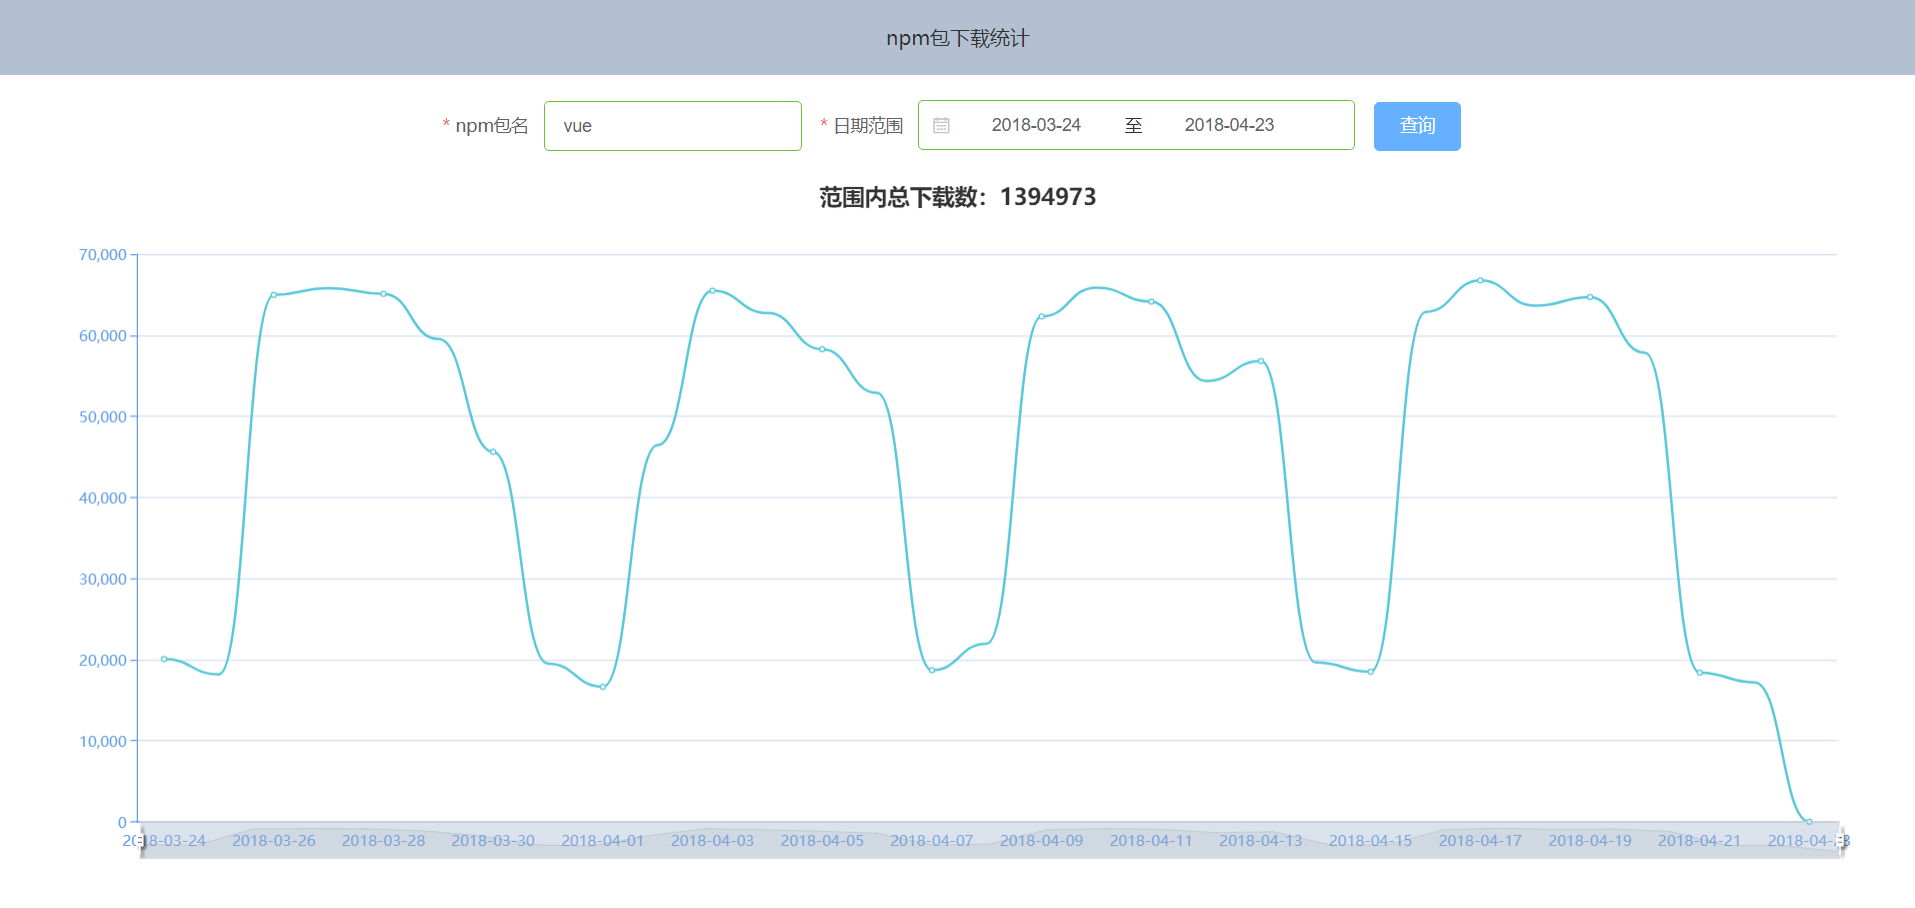
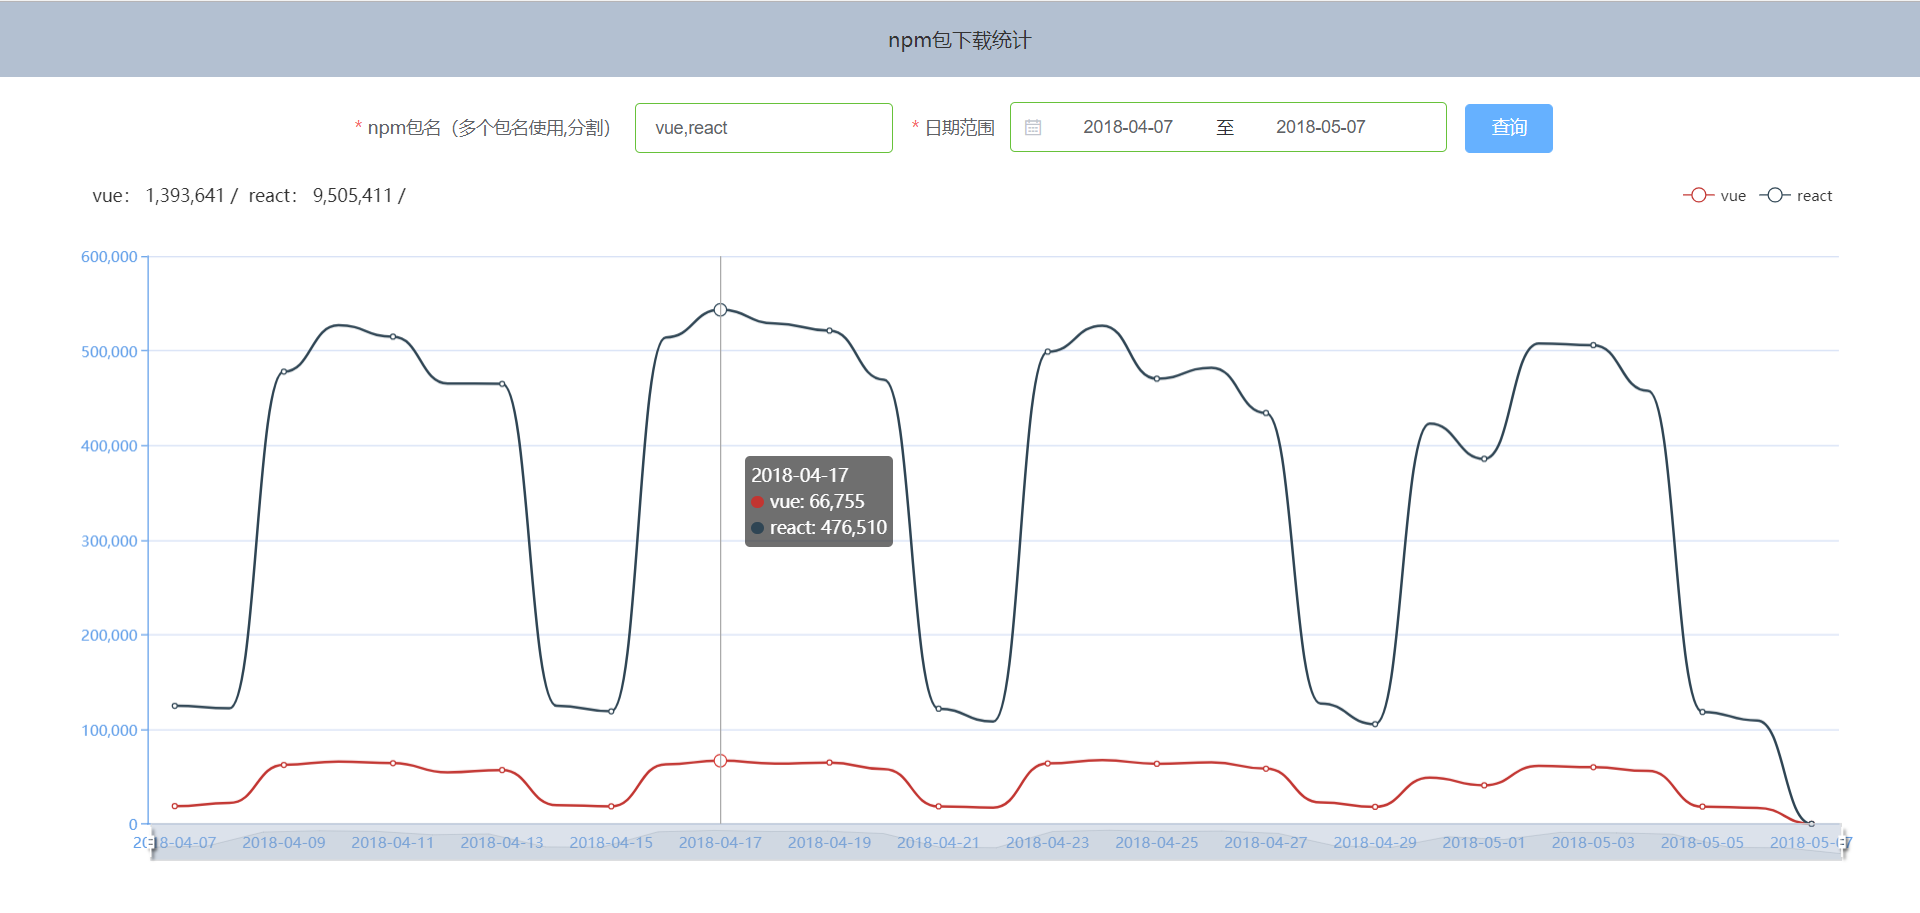
add batch query
1.add batch query
2.change local server port
3.change screenshot

diff --git a/src/views/home/index.vue b/src/views/home/index.vue
@@ -4,7 +4,7 @@
       <el-header>npm包下载统计</el-header>
       <el-main>
         <el-form :inline="true" :model="queryForm" :rules="rules" ref="queryForm" class="query-form-inline">
-          <el-form-item label="npm包名" prop="packageName">
+          <el-form-item label="npm包名（多个包名使用,分割）" prop="packageName">
             <el-input v-model="queryForm.packageName" placeholder="请输入包名"></el-input>
           </el-form-item>
           <el-form-item label="日期范围" prop="datetime">
@@ -23,7 +23,12 @@
 </template>
 
 <script>
-import echarts from 'echarts'
+import * as echarts from 'echarts/lib/echarts'
+import 'echarts/lib/chart/line'
+import 'echarts/lib/component/tooltip'
+import 'echarts/lib/component/title'
+import 'echarts/lib/component/legend'
+import 'echarts/lib/component/dataZoom'
 import fetch from 'isomorphic-fetch'
 
 export default {
@@ -31,7 +36,6 @@ export default {
     let checkDateLength = (rule, value, callback) => {
       let timeLen = new Date(value[1]).getTime() - new Date(value[0]).getTime()
       let dataLen = timeLen / 86400000
-      console.log(dataLen)
       if (dataLen > 546) { // 超过546天
         this.$notify({
           title: '提示',
@@ -90,71 +94,7 @@ export default {
   },
   mounted () {
     this.npmDataChart = echarts.init(document.getElementById('chart-render'), null, {renderer: 'svg'})
-    this.chartOpention = {
-      title: {
-        left: 'center',
-        text: ''
-      },
-      legend: {
-        data: []
-      },
-      tooltip: {
-        trigger: 'axis'
-      },
-      dataZoom: [{
-        type: 'inside'
-      }, {
-        handleSize: '80%',
-        handleStyle: {
-          color: '#fff',
-          shadowBlur: 3,
-          shadowColor: 'rgba(0, 0, 0, 0.6)',
-          shadowOffsetX: 2,
-          shadowOffsetY: 2
-        }
-      }],
-      grid: {
-        left: '3%',
-        right: '3%',
-        bottom: '3%',
-        containLabel: true
-      },
-      xAxis: {
-        type: 'category',
-        axisTick: {
-          show: false
-        },
-        axisLine: {
-          lineStyle: {
-            color: '#609ee9'
-          }
-        },
-        data: []
-      },
-      yAxis: {
-        type: 'value',
-        splitLine: {
-          lineStyle: {
-            color: ['#D4DFF5']
-          }
-        },
-        axisLine: {
-          lineStyle: {
-            color: '#609ee9'
-          }
-        }
-      },
-      series: [{
-        data: [],
-        type: 'line',
-        itemStyle: {
-          normal: {
-            color: '#58c8da'
-          }
-        },
-        smooth: true
-      }]
-    }
+    this.initChartData()
     window.onresize = this.npmDataChart.resize
   },
   methods: {
@@ -171,37 +111,69 @@ export default {
               type: 'error'
             })
             throw new Error('404')
+          } else if (response.status === 400) {
+            this.$notify({
+              title: '错误',
+              message: '批量查询超过了365天！',
+              type: 'error'
+            })
+            throw new Error('400')
           }
           return response.json()
         })
         .then((res) => {
-          let resData = res.downloads
-          let dayArr = []
-          let downloadsArr = []
-          let downloadCount = 0
-          for (let i = 0, len = resData.length; i < len; i++) {
-            dayArr.push(resData[i].day)
-            downloadsArr.push(resData[i].downloads)
-            downloadCount += resData[i].downloads
+          this.initChartData()
+          let packageArr = this.queryForm.packageName.split(',')
+          if (packageArr.length > 1) {
+            for (let value of Object.entries(res)) {
+              if (value[0]) {
+                this.dataHandle(value[0], value[1].downloads, true)
+              }
+            }
+          } else {
+            this.dataHandle(this.queryForm.packageName, res.downloads, false)
           }
-          downloadCount = downloadCount.toLocaleString()
-          this.chartOpention.title.text = `范围内总下载数：${downloadCount}`
-          this.chartOpention.xAxis.data = dayArr
-          this.chartOpention.series[0].data = downloadsArr
           this.npmDataChart.hideLoading()
           this.npmDataChart.setOption(this.chartOpention)
         })
         .catch((e) => {
-          if (e.message !== '404') {
+          if (e.message !== '404' && e.message !== '400') {
             this.$notify({
               title: '错误',
               message: '网络错误！',
               type: 'error'
             })
-            this.npmDataChart.hideLoading()
           }
+          this.npmDataChart.hideLoading()
           return Promise.reject(e)
         })
+    },
+    dataHandle (seriesName, dataArr, isBatch) {
+      let downloadsArr = []
+      let dayArr = []
+      let totalDownload = 0
+      for (let dwValue of Array.values(dataArr)) {
+        dayArr.push(dwValue.day)
+        downloadsArr.push(dwValue.downloads)
+        totalDownload += dwValue.downloads
+      }
+      console.log(totalDownload)
+      this.chartOpention.series.push({
+        name: seriesName,
+        type: 'line',
+        stack: '下载数',
+        data: downloadsArr,
+        smooth: true
+      })
+      this.chartOpention.xAxis.data = dayArr
+      if (isBatch) {
+        this.chartOpention.legend.data.push(seriesName)
+        totalDownload = totalDownload.toLocaleString()
+        this.chartOpention.title.text += ` ${seriesName}： ${totalDownload} / `
+      } else {
+        totalDownload = totalDownload.toLocaleString()
+        this.chartOpention.title.text = ` ${seriesName}： ${totalDownload} `
+      }
     },
     onSubmit () {
       this.$refs['queryForm'].validate((valid) => {
@@ -212,6 +184,69 @@ export default {
           return false
         }
       })
+    },
+    initChartData () {
+      this.chartOpention = {
+        title: {
+          left: '3%',
+          text: '',
+          textStyle: {
+            fontSize: 14,
+            fontWeight: 500
+          }
+        },
+        legend: {
+          data: [],
+          right: '3%'
+        },
+        tooltip: {
+          trigger: 'axis'
+        },
+        dataZoom: [{
+          type: 'inside'
+        }, {
+          handleSize: '80%',
+          handleStyle: {
+            color: '#fff',
+            shadowBlur: 3,
+            shadowColor: 'rgba(0, 0, 0, 0.6)',
+            shadowOffsetX: 2,
+            shadowOffsetY: 2
+          }
+        }],
+        grid: {
+          left: '3%',
+          right: '3%',
+          bottom: '3%',
+          containLabel: true
+        },
+        xAxis: {
+          type: 'category',
+          axisTick: {
+            show: false
+          },
+          axisLine: {
+            lineStyle: {
+              color: '#609ee9'
+            }
+          },
+          data: []
+        },
+        yAxis: {
+          type: 'value',
+          splitLine: {
+            lineStyle: {
+              color: ['#D4DFF5']
+            }
+          },
+          axisLine: {
+            lineStyle: {
+              color: '#609ee9'
+            }
+          }
+        },
+        series: []
+      }
     }
   }
 }

diff --git a/config/index.js b/config/index.js
@@ -14,7 +14,7 @@ module.exports = {
 
     // Various Dev Server settings
     host: 'localhost', // can be overwritten by process.env.HOST
-    port: 8080, // can be overwritten by process.env.PORT, if port is in use, a free one will be determined
+    port: 8088, // can be overwritten by process.env.PORT, if port is in use, a free one will be determined
     autoOpenBrowser: false,
     errorOverlay: true,
     notifyOnErrors: true,
